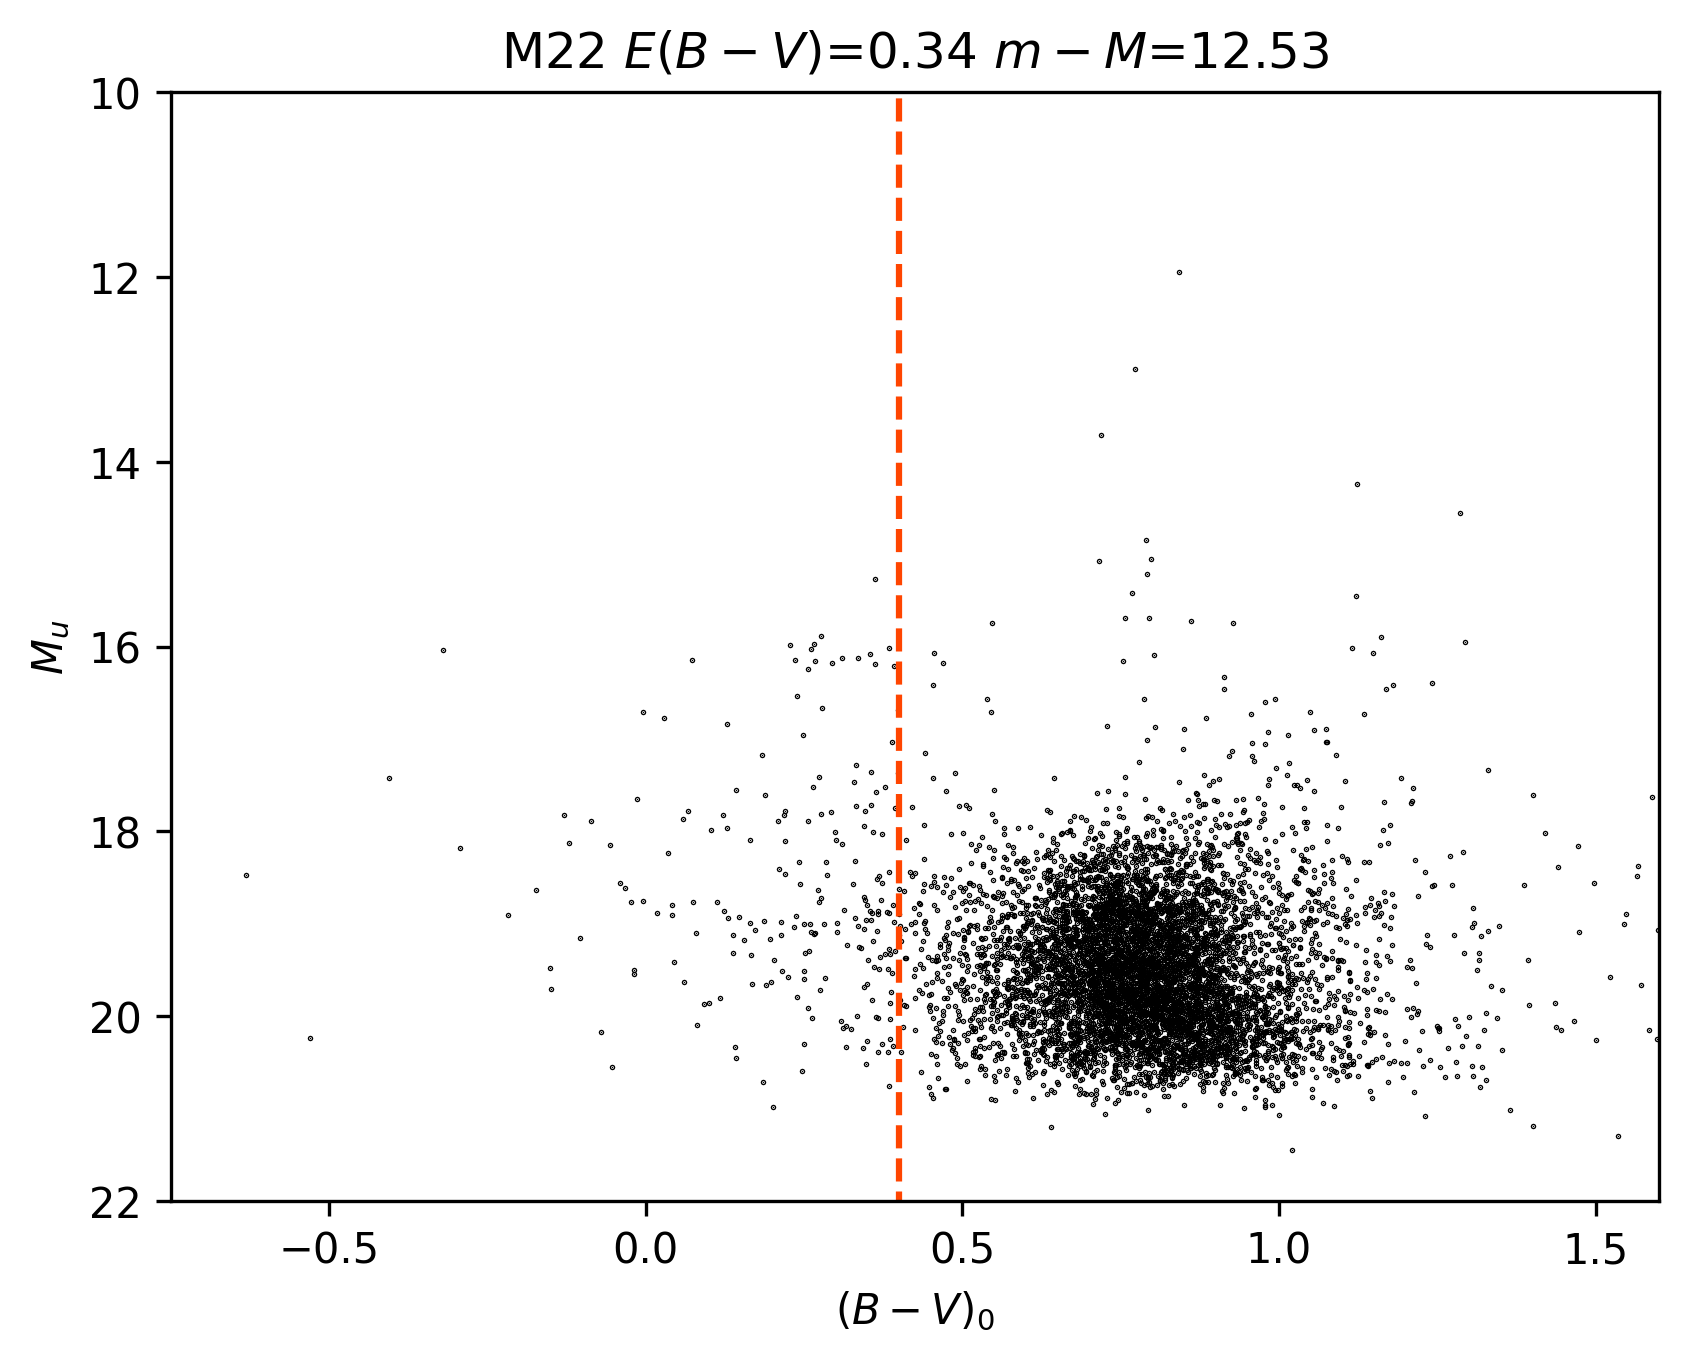
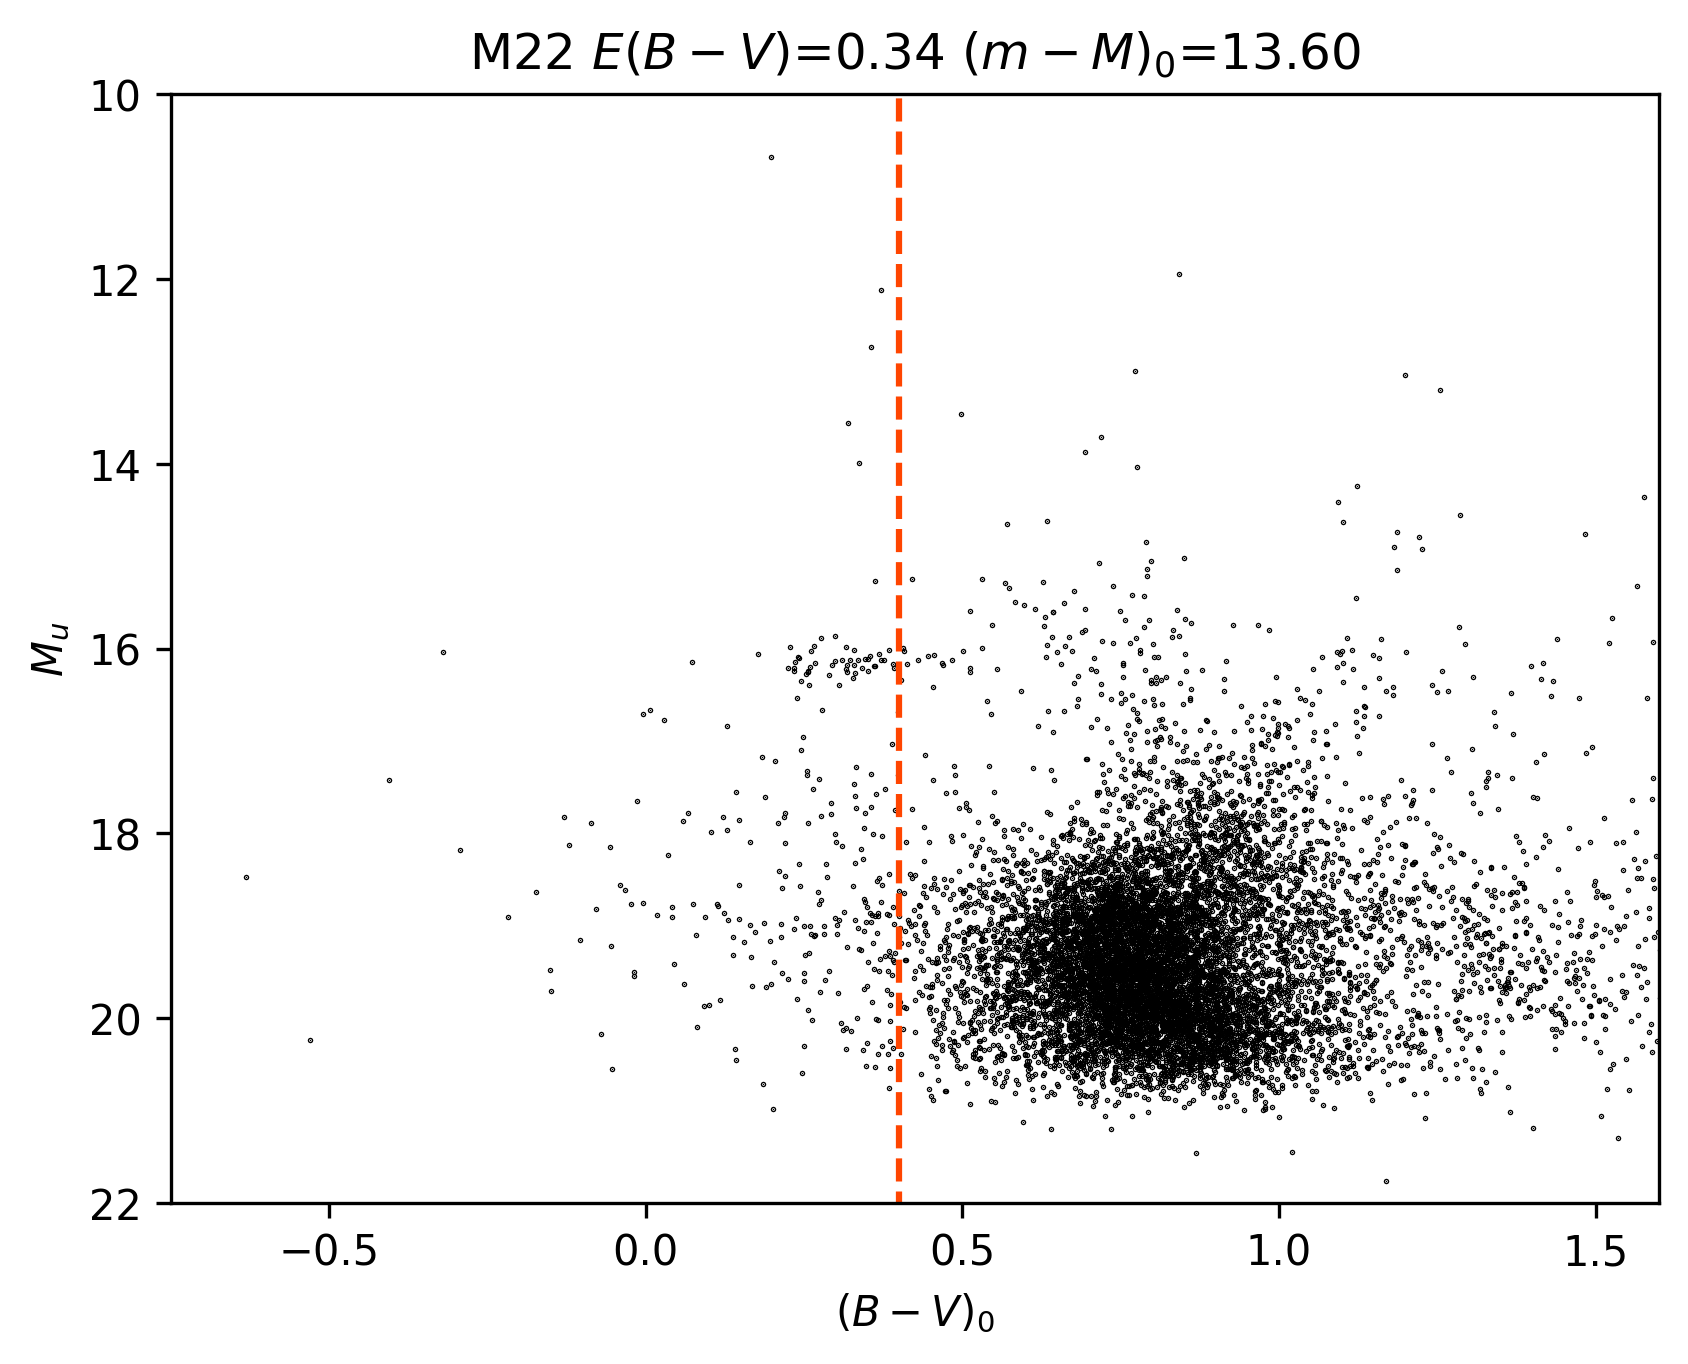
Changed params to fit for other clusters

diff --git a/commonChecker.py b/commonChecker.py
@@ -3,6 +3,7 @@ import pandas as pd
 from astropy.table import Table
 import matplotlib.pyplot as plt
 import logging
+import glob
 
 # logging.basicConfig(filename='logs.log',
 #                     encoding='utf-8',
@@ -68,9 +69,8 @@ import logging
 # print(moo)
 
 # df2 = Table.read("nonMembers/M14_nonMembers_testing123.dat", format="ascii", delimiter="\s")
-df3 = Table.read("clusterMembers/M9_memberStars_5Sigma.dat", format="ascii", delimiter="\s")
-
-
+df3 = Table.read("clusterMembers/M14_memberStars_5Sigma.dat", format="ascii", delimiter="\s")
+# print(df3)
 
 vRaw = df3['col14']
 B = df3['col13']
@@ -82,13 +82,10 @@ u = df3['col9']
 # i = df2['col11']
 bv = b-v
 # vi = v-i
-
-arr = [1226, 1459]
-print(df3[arr])
-
-
 # print(df2)
 
+arr = [ 648, 1339, 1387, 1743, 2078, 2551]
+# print(df3[arr])
 # if (vi[1543] > 0.331+1.444*bv[1543]):
 #     print(0)
 #     logging.error('Run unsuccessful')
@@ -96,7 +93,7 @@ print(df3[arr])
 #     print(1)
 #     logging.info('Run successful')
 
-lst1 = [10001,9243,8956,8812,8119,7645,7386,7075,6897,6908,6682,6458,6395,6215,5262,5212,5096,4987,4562,3006,1320]
+# lst1 = [10001,9243,8956,8812,8119,7645,7386,7075,6897,6908,6682,6458,6395,6215,5262,5212,5096,4987,4562,3006,1320]
 
 # print(df2['col1'])
 
@@ -123,7 +120,7 @@ def model_f(x,a,b,c,d,e,f,g,k):
 
 
 # arr = [301, 323, 363]
-arr = [1226, 1459]
+# arr = [1226, 1459]
 
 fig, ax = plt.subplots()
 ax.scatter(bvRaw, vRaw, c='k', s=0.1)
@@ -138,5 +135,13 @@ ax.set_xlim(-0.75, 1.6)
 ax.set_ylim(22,12)
 ax.set_xlabel('$B-V$')
 ax.set_ylabel('$V$')
-plt.show()
+# plt.show()
 
+a = glob.glob('*phot')
+b = []
+for item in a:
+    b.append(item.split('.')[0])
+
+for item in b:
+    with open('clusterNameList.md', 'a') as f:
+        f.write('-' + ' ' + '[ ]' + ' ' + item + '  ' + '\n')

diff --git a/trial.py b/trial.py
@@ -147,8 +147,8 @@ def DBSCANPlots(bv, v, b, u, vi, ub, ubbv, clusterName, cond, dist, raClust, dec
 
     # HB Model Equation for use in plots and UVBright conditions (saved as .txt file for future reference)
 
-    VBVArgs = {'a': -3.74, 'b': 7.03, 'c': 6.83, 'd': -19.86, 'e': 8.98, 'f': -1.51, 'g': 0.35, 'k': 0.0}
-    UBVArgs = {'a': -3.74, 'b': 7.03, 'c': 6.83, 'd': -19.86, 'e': 8.98, 'f': -1.51, 'g': 1.65, 'k': 0.75}
+    VBVArgs = {'a': -3.74, 'b': 7.03, 'c': 6.83, 'd': -19.86, 'e': 8.98, 'f': -1.51, 'g': 0.35, 'k': -0.05}
+    UBVArgs = {'a': -3.74, 'b': 7.03, 'c': 6.83, 'd': -19.86, 'e': 8.98, 'f': -1.51, 'g': 1.65, 'k': 0.2}
 
     y2 = model_f(bv[indAll], float(VBVArgs['a']), float(VBVArgs['b']), float(VBVArgs['c']), float(VBVArgs['d']),
                  float(VBVArgs['e']), float(VBVArgs['f']), float(VBVArgs['g']), float(VBVArgs['k']))  # VBV
